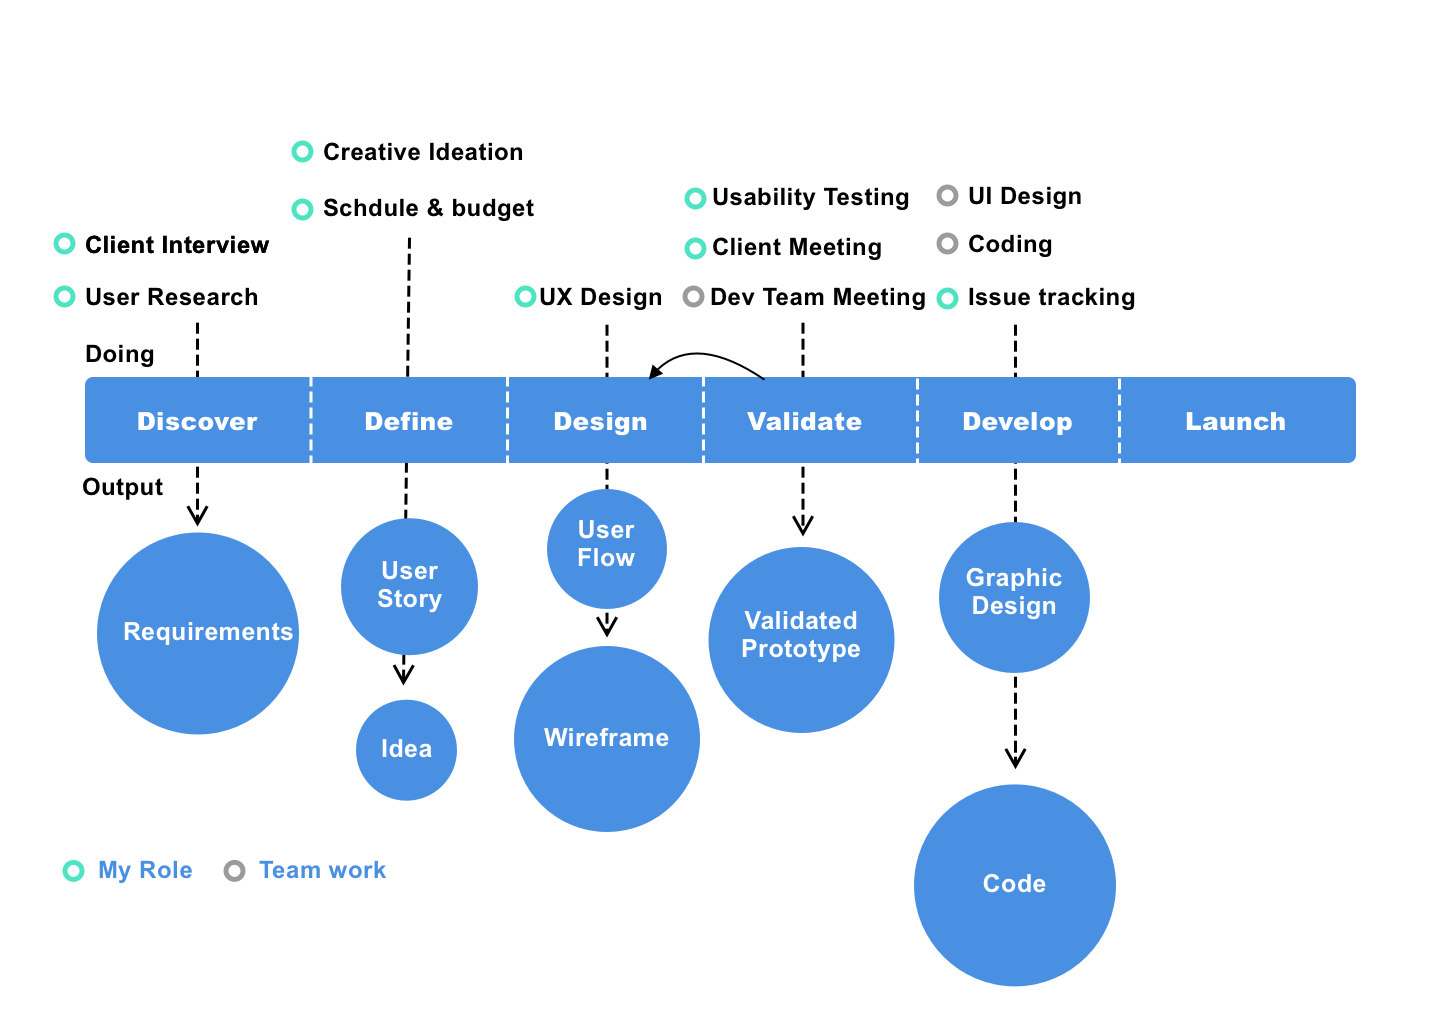
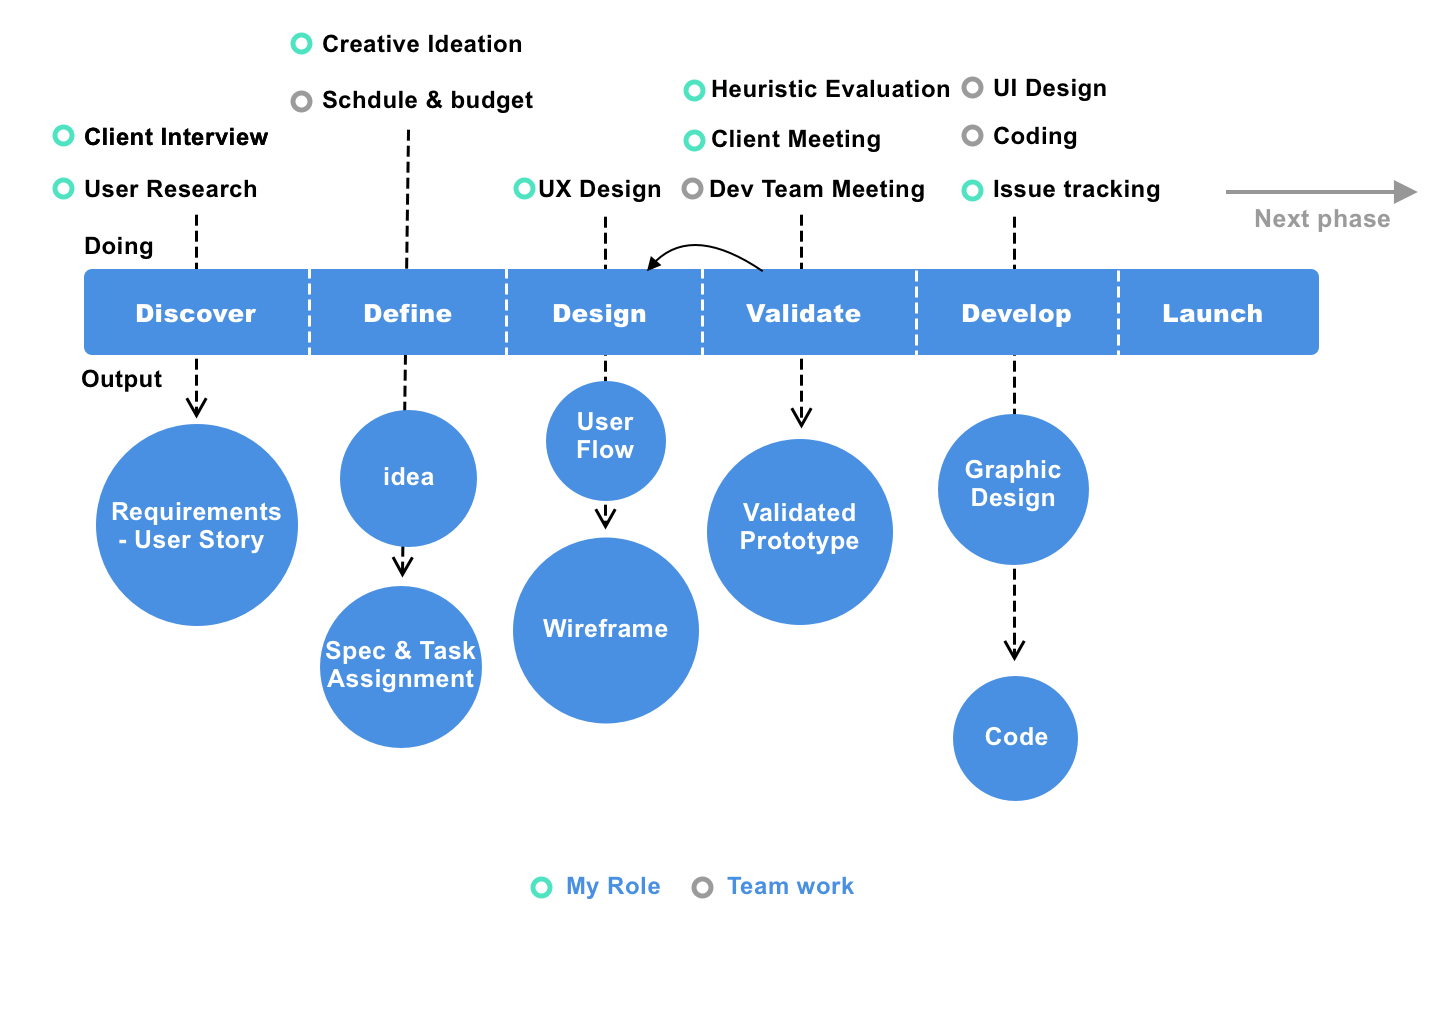
edit profolio

diff --git a/project-cetacean-rescue.html b/project-cetacean-rescue.html
@@ -116,7 +116,7 @@
                     <div class="row">
                         <div class="col-md-12">
                             <ul class="breadcrumb">
-                                <li><a href="#">Home</a></li>
+                                <li><a href="index.html">Home</a></li>
                                 <li class="active">Portfolio</li>
                             </ul>
                         </div>
@@ -142,7 +142,7 @@
 
                     <ul class="portfolio-details">
                         <li>
-                            <h5 class="mt-sm mb-xs">Skills</h5>
+                            <h5 class="mt-sm mb-xs">My Role</h5>
 
                             <ul class="list list-inline list-icons">
                                 <li><i class="fa fa-check-circle"></i> UX Research & Design</li>
@@ -179,10 +179,11 @@
                     <p>After the client kick-off meeting, I found that the Taiwan Cetacean Society has two primary goals for this project. First, to increase the rescue rate of whales and dolphins. Second, educating the general public of how to help with
                         rescue when they find a stranding whale or dolphin. They already have a broad goal in mind, which they divided into three phases:</p>
                     <ul>
-                        <li>2016 Phase 1: rescue report App for the public</li>
-                        <li>2017 Phase 2: notification system for the professional rescuers</li>
-                        <li>2018 Phase 3: visualization of data</li>
+                        <li>2015 Phase 1: rescue report App for the public (Android Version)</li>
+                        <li>2016 Phase 2: iOS Version and New Feature</li>
+                        <li>2017 Phase 3: visualization of data</li>
                     </ul>
+                    <p>To explain my process of a project, I will focus on the first phrase, and emphasize the iteration and another two phrase at the end of this article.</p>
                     <h4 class="mt-lg">User Research</h4>
                     <p>With the help of TCS, I had 1x1 interview with their professional rescuer. He provided not only the insight of how rescuers work but also how the public report cases to them. Here's the key finding:</p>
                     <ul>
@@ -199,17 +200,21 @@
                             <li>They usually call coast guard instead of TCS.</li>
                         </ul>
                     </ul>
+
+                    <h4 class="mt-lg">User Story</h4>
+                    <p>With the key findings, I was able to transform it into user stories in a spreadsheet. User stories can not only help me create ideas but it can also serves as a great tool to create empathy with developers. Moreover, we can run the
+                        Scrum based on these user stories. A sample of user story is as following:
+                    </p>
+                    <blockquote class="with-borders">As a rescuer, I need the location and photos of the stranding animal so that I can bring proper tools to the right plcae.</blockquote>
                 </div>
             </div>
             <div class="row mt-lg">
                 <div class="col-md-12">
                     <hr></hr>
                     <h2 class="project-sub-title">Define</h2>
-                    <p>With the key findings, I was able to define the scope of the project. Usually, I transform it into user stories in a spreadsheet. User stories can help me calculate the budget and schedule with developers. Moreover, we can run the
-                        Scrum based on these user stories. Then, I create a flow of how people report a case.
+                    <p>I generate idea with the user stories. Then, I create a UI flow and then mapping these ideas into each screen.
                     </p>
-                    <h4>User Story Sample</h4>
-                    <blockquote class="with-borders">As a rescuer, I need the GPS location and photos of the stranding animal so that I can bring proper tools to the right location.</blockquote>
+
                     <h4>Ideas</h4>
                     <p>Based on these user story, I generate some main ideas:</p>
                     <ul>
@@ -220,27 +225,93 @@
                     </ul>
                     <p>Then, I create the UI flow as follow:</p>
                     <img src="img/projects/ce-04.png">
+                    <h4>Project Speculation & Task Assignment</h4>
+                    <p>Once I know how may pages and features we need. I arranged a tech meeting with the developer head, we decided who would devleop the program and how much time we need. In addition, we were able to calculate the cost based on the estimated
+                        work hours.</p>
+                    <p>Unfortunately, we had a shortage of App developer at that time. So, we outsource this part to a freelancer. From this experience, I learned a lot of how to manage a remote developer.</p>
+                    <img src="img/projects/ce-05.png" width="100%">
                 </div>
             </div>
             <div class="row mt-lg">
                 <div class="col-md-12">
                     <hr></hr>
                     <h2 class="project-sub-title">Design</h2>
-                    <p>Start at 2016, this project is a three years program. One phrase a year. At the start of each year, the Taiwan Cetacean Society and I have a kick-off meeting, reflecting on the current status and setting up a new year's goal. Here's
-                        the process we went through in one phrase:
+                    <p>I created the prototype with Axure RP. In this prototype, I have two challenges I want to try: First, I want to display different status of a report. That is, new report, failed report, and replied report. Second, I want to make this
+                        app looks more delightful and warm, in the opposite of suffering animal pictures that will show up in this app.
                     </p>
-                    <img src="img/projects/ce-01.png" width="100%">
+                    <img src="img/projects/ce-06.png" width="100%">
+                    <p style="text-align: center"><a href="https://wireframe.larvata.tw/whale/" class="btn btn-primary btn-lg mt-lg p-lg" target="_blank">Live Demo</a></p>
+                </div>
+            </div>
+            <div class="row mt-lg">
+                <div class="col-md-12">
+                    <hr></hr>
+                    <h2 class="project-sub-title">Validation</h2>
+                    <h4>Heuristic Evaluation</h4>
+                    <p>When the prototype is ready, I ran a <strong>heuristic evaluation</strong> with several of my co-worker. One of the significant change accroding to the heuristic evaluation is to move the navigation tab from the bottom to the top of
+                        the screen in the Android version. They said that based on the UX research form some popular app like LINE, Android users are prone to press the wrong tab because the bottom tabs are close to the original function tabs of Android
+                        phone.
+                    </p>
+                    <p style="text-align: center"><img src="img/projects/ce-07.png"><img src="img/projects/ce-08.png"><br>the location of tabs is different between iOS version and Android version.</p>
+                    </p>
+                    <h4>Usability Test & Client Approvement</h4>
+                    <p>After our in-house testing, I bring the prototype to the client and ran a usbility test with them. In one hand, I would like to make some ajustiment with their involement, on the other hand, the the action also prevent them from changing
+                        spec after we go into the developing stage.
+                    </p>
+                </div>
+            </div>
+            <div class="row mt-lg">
+                <div class="col-md-12">
+                    <hr></hr>
+                    <h2 class="project-sub-title">Development</h2>
+                    <h4>UI Design</h4>
+                    <p>I gave the UI designer my prototype, and she worked on the graphics display of this app. One of my particular requirement is to create a cute loading animation. There would be a few seconds before finishing the submitting with six
+                        photos uploading at one time,
+                    </p>
+                    <p style="text-align: center"><img src="img/projects/ce-09.png" width="100%"><br>UI design by the team</p>
+                    <p style="text-align: center"><img src="img/projects/ce-10.gif"><br>Waiting animation by the team</p>
+                    <h4>Coding</h4>
+                    <p>When we move into the coding process, I will create several "issues" on our issue tracking system, setting up estimated work hours and assigning them to the developers. The most difficult part of this stages would be to track their
+                        progress and help them solving difficult tasks by finding a senior developer for them. Also, I will have a daily stand-up meeting with them and explain the detail of features if they are confusing with the design.</p>
+                </div>
+            </div>
+            <div class="row mt-lg">
+                <div class="col-md-12">
+                    <hr></hr>
+                    <h2 class="project-sub-title">Phase 2 and Phase 3</h2>
+                    <h4>Phase 2 - New Feature</h4>
+                    <p>In phase 2, we developed the iOS version of the app, and add a new feature - Wiki. This new feature allows the user to understand different species of whales and dolphins. Also, it explained in detail of how to rescue stranded animals
+                        by taking the standard process.
+                    </p>
+                    <p style="text-align: center"><img src="img/projects/ce-12.png" width="200px">
+                        <h4>Phase 3 - Visualization of Data</h4>
+                        <p>After collecting data for two years, we can utilize the data by visualizing them to the public. In the past, the TSC had to create a picture of a map that lists the location cases every month. It takes time and effort. By creating
+                            a website that shows the report data from the app database, we can show the most up-t-date cases with filter and interactive features.</p>
+                        <p style="text-align: center"><img src="img/projects/ce-13.png" width="100%"></p>
                 </div>
             </div>
             <div class="row mt-lg">
                 <div class="col-md-12">
                     <hr></hr>
                     <h2 class="project-sub-title">In the News</h2>
+                    <p>Cetacean Rescue App is reported by these Taiwan Media:</p>
                     <ul class="in-the-news">
-                        <li><a href="http://www.tanews.org.tw/info/13682" target="_blank">2018-01-05 an APP help increasing successful rate of resueing - Taiwan Animal News</a></li>
-                        <li><a href="https://www.cna.com.tw/news/ahel/201801050287.aspx" target="_blank">2018-01-05 Download Cetacean Rescue App, you can be the rescuer - The Central News Agency</a></li>
-                        <li><a href="https://www.forest.gov.tw/0000014/0061788" target="_blank">2018-01-05 Cetacean Rescue App increased successful rate of resueing - Taiwan Forestry Bureau</a></li>
+                        <li class="mt-lg"><a href="http://www.tanews.org.tw/info/13682" target="_blank">2018-01-05 an APP help increasing successful rate of resueing - Taiwan Animal News</a></li>
+                        <li class="mt-lg"><a href="https://www.cna.com.tw/news/ahel/201801050287.aspx" target="_blank">2018-01-05 Download Cetacean Rescue App, you can be the rescuer - The Central News Agency</a></li>
+                        <li class="mt-lg"><a href="https://www.forest.gov.tw/0000014/0061788" target="_blank">2018-01-05 Cetacean Rescue App increased successful rate of resueing - Taiwan Forestry Bureau</a></li>
                     </ul>
+                </div>
+            </div>
+            <div class="row mt-lg">
+                <div class="col-md-12">
+                    <hr></hr>
+                    <h2 class="project-sub-title">Conclusion</h2>
+                    <p>This project is my first mobile app project that goes to public users. It had a more flexible schedule but a limited budget, so I was able to run this project with multiple phrases. I learned how to manage developer outside of the
+                        company and how to design a mobile UX with a long-term prospect.
+
+                    </p>
+                    <p>One thing I think to improve is that I wish I would run task testing with more end-users. But back to 2015, I know nothing about task testing, which leaves many rooms for usability improvement</p>
+
                 </div>
             </div>
         </div>

diff --git a/index.html b/index.html
@@ -128,7 +128,7 @@
                     <div class="row ">
                         <div class="col-sm-6 col-md-8">
                             <div class="looking-for-box ">
-                                <h2>- Hi! I am Weichun. <br>I am a UX Designer / Project Manager.</h2>
+                                <h2>Hi! I am Weichun. <br>I am a UX Designer / Project Manager.</h2>
                                 <p>I can bring your product from concept to launch</p>
                             </div>
                         </div>
@@ -156,12 +156,12 @@
                             <span class="thumb-info-wrapper ">
                                 <img src="img/projects/project-2.jpg " class="img-responsive " alt=" ">
                             </span>
-                            <h4>Larvata Travel</h4>
-                            <p class="p-md pt-none">Dowloadable Map App that help travelers to find information while lost the connection of internet.</p>
+                            <h4>UI Design Challenge</h4>
+                            <p class="p-md pt-none">Design with Sketch</p>
                         </div>
                     </a>
                 </div>
-                <div class="col-md-6 col-xs-12 p-lg ">
+                <!-- <div class="col-md-6 col-xs-12 p-lg ">
                     <a href="project-whalefinder.html ">
                         <div class="port-item thumb-info thumb-info-lighten thumb-info-centered-info thumb-info-no-borders ">
                             <span class="thumb-info-wrapper ">
@@ -189,21 +189,21 @@
             <div class="port-more ">
                 <a href="projects.html "> More Cases <img src="img/next-arrow.png " alt="see more cases ">
 				</a>
+            </div>-->
+                <div class="clear "></div>
             </div>
-            <div class="clear "></div>
         </div>
-    </div>
-    <footer id="footer ">
-        <div class="footer-copyright ">
-            <div class="container ">
-                <div class="row ">
-                    <div class="col-md-7 ">
-                        <p>Weichun Chou © Copyright 2018. All Rights Reserved.</p>
+        <footer id="footer ">
+            <div class="footer-copyright ">
+                <div class="container ">
+                    <div class="row ">
+                        <div class="col-md-12" style="text-align: center">
+                            <p>Weichun Chou © Copyright 2018. All Rights Reserved.</p>
+                        </div>
                     </div>
                 </div>
             </div>
-        </div>
-    </footer>
+        </footer>
     </div>
 
     <!-- Vendor -->

diff --git a/css/custom.css b/css/custom.css
@@ -75,7 +75,7 @@ h2 {
 
 .custom-position-1 {
     position: relative;
-    margin-top: -181px;
+    margin-top: -207px;
 }
 
 @media (max-width: 991px) {
